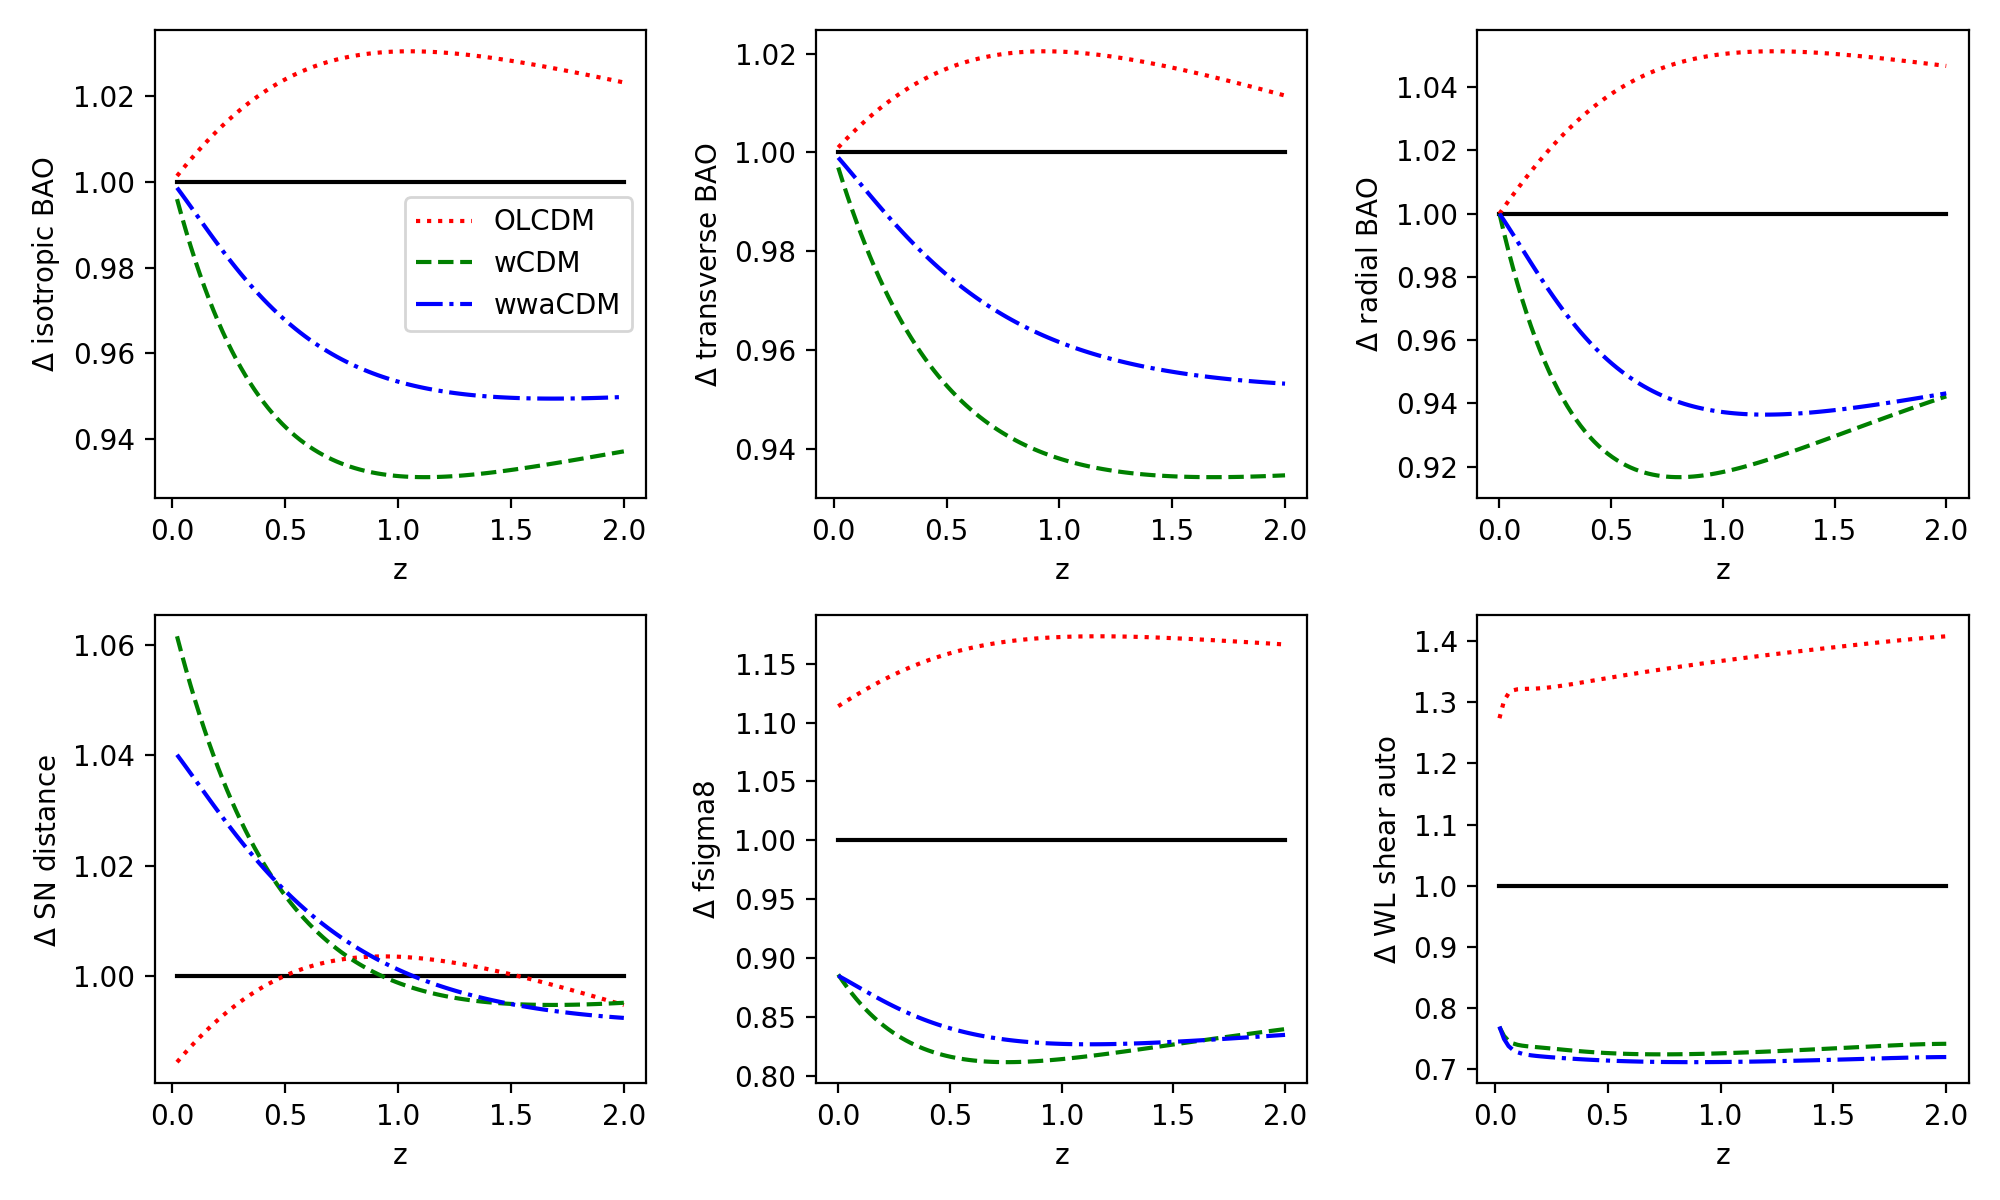
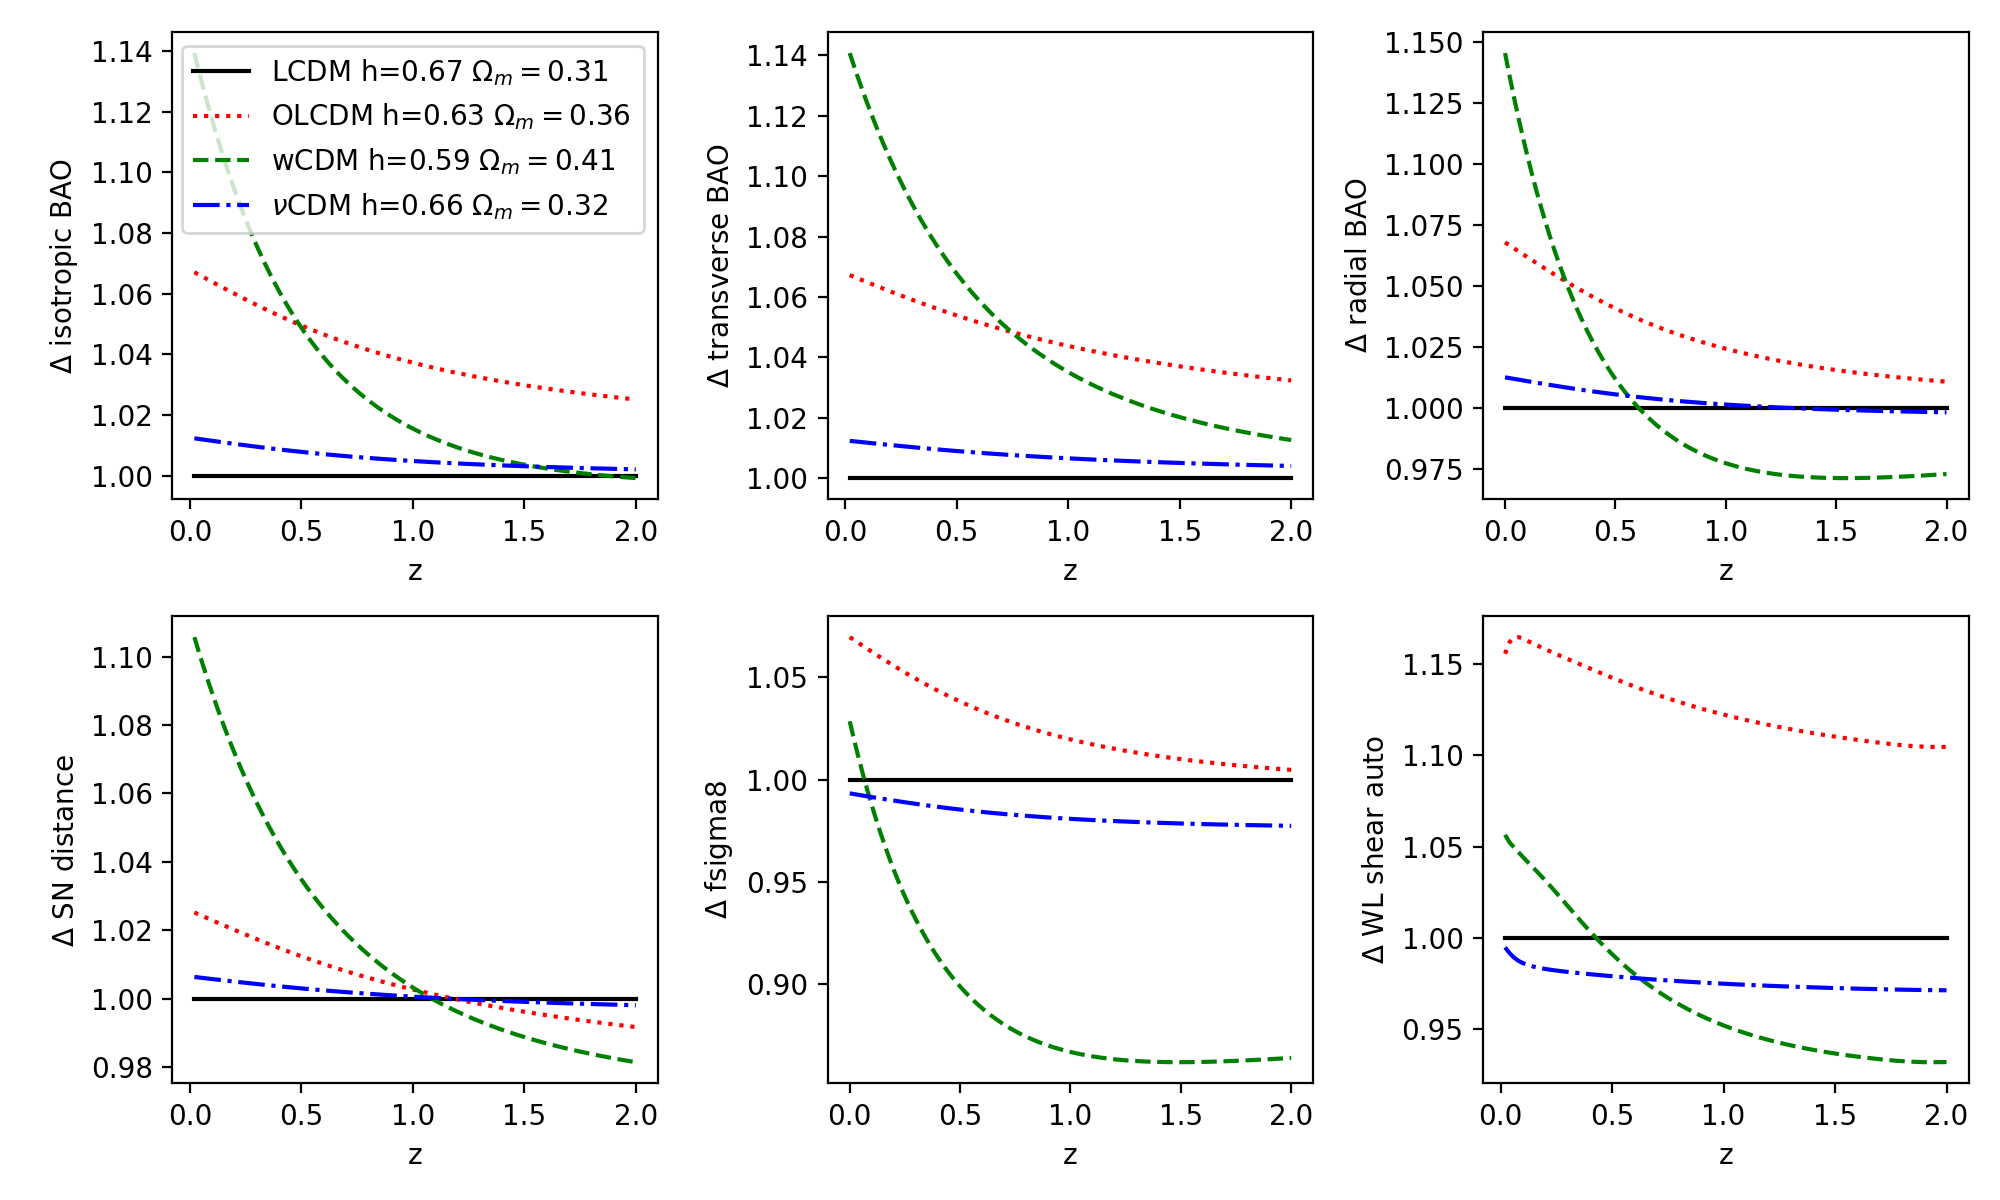
v2

diff --git a/thincandy.py b/thincandy.py
@@ -2,6 +2,87 @@
 import pyccl as ccl
 import numpy as np
 import matplotlib.pyplot as plt
+import scipy.optimize as so
+
+
+
+def main():
+    global aar, zar, CBase, Obh2, Och2, lnttAs, ns
+    # Planck best fit
+    Obh2 = 0.02233
+    Och2 = 0.1198
+    lnttAs = 3.043
+    h = 67.32/100.
+    ns = 0.9652
+
+    CBaseP = {
+        'Omega_c' :Och2/h/h,
+        'Omega_b' : Obh2/h/h,
+        'h' : h,
+        'n_s':  ns,
+        'A_s' : np.exp(lnttAs)/10e10*np.pi**2 # Eh??
+    }
+
+    CBase = ccl.Cosmology(**CBaseP)
+
+    print (ccl.sigma8(CBase), rd(CBase))
+    Copen = GetCosmo ({'Omega_k':-0.01})
+    Cw = GetCosmo ({'w0':-0.7})
+    Cmnu = GetCosmo ({'m_nu':0.1})
+
+
+    
+    zar=np.linspace (0,2,100)
+    aar = 1/(1+zar)
+
+    
+    plt.figure(figsize=(10,6), dpi=200)
+    for i,(fun,name) in enumerate([(aiso,'isotropic BAO'),
+                                   (aperp, 'transverse BAO'),
+                                   (apar, 'radial BAO'),
+                                   (sn, 'SN distance '),
+                                   (fs8, 'fsigma8'),
+                                   (shearshear, 'WL shear auto')]):
+        plt.subplot(2,3,i+1)
+        plt.plot(zar,fun(CBase),'k-', label='LCDM '+lpars(CBase))
+        plt.plot(zar,fun(Copen),'r:',label='OLCDM '+lpars(Copen))
+        plt.plot(zar,fun(Cw),'g--', label='wCDM '+lpars(Cw))
+        plt.plot(zar,fun(Cmnu),'b-.', label='$\\nu$CDM '+lpars(Cmnu))
+        if (i==0):
+            plt.legend()
+        plt.xlabel("z")
+        plt.ylabel('$\Delta$ '+name)
+        
+    plt.tight_layout()
+    plt.savefig('thincandy.png')
+    plt.show()
+
+
+def lpars(C):
+    str='h=%1.2f $\\Omega_m=%1.2f$ '%(C['h'],C['Omega_m'])
+    return str
+    
+def GetCosmo (addict):
+    ## find the correct h, to kee distance t
+    acmb=1/(1150.)
+    target = ccl.comoving_angular_distance(CBase,acmb) / rd(CBase)
+    def _C(h):
+        CP = {
+            'Omega_c' :Och2/h/h,
+            'Omega_b' : Obh2/h/h,
+            'h' : h,
+            'n_s':  ns,
+            'A_s' : np.exp(lnttAs)/10e10*np.pi**2 # Eh??
+        }
+        return ccl.Cosmology(**CP,**addict)
+    def _t(h):
+        C=_C(h) 
+        d=ccl.comoving_angular_distance(C,acmb) / rd(C)
+        return d-target
+        
+    hout = so.bisect(_t,0.3,1.0)
+    return _C(hout)
+
 
 def rd_cuesta_approx(obh2, ocbh2, onuh2, Nnu):
     if (abs(Nnu-3) > 0.1):
@@ -22,10 +103,9 @@ def aperp (C):
     aperp0 = ccl.comoving_angular_distance(CBase,aar) / rd(CBase)
     return aperp / aperp0
 
-
 def apar (C):
-    apar = 1/ccl.h_over_h0(C,aar) / rd(C)
-    apar0 = 1/ccl.h_over_h0(CBase,aar) / rd(CBase)
+    apar = 1/ccl.h_over_h0(C,aar)/C['h'] / rd(C)
+    apar0 = 1/ccl.h_over_h0(CBase,aar)/CBase['h'] / rd(CBase)
     return apar / apar0
 
 def aiso (C):
@@ -54,55 +134,11 @@ def shearshear (C):
     sp0 = np.array([shearpower(CBase,z) for z in zar])
     return sp/sp0
     
+
+if __name__=="__main__":
+    main()
     
+
     
-
-
-# Planck best fit
-Obh2 = 0.02233
-Och2 = 0.1198
-lnttAs = 3.043
-h = 67.32/100.
-ns = 0.9652
-
-CBaseP = {
-    'Omega_c' :Och2/h/h,
-    'Omega_b' : Obh2/h/h,
-    'h' : h,
-    'n_s':  ns,
-    'A_s' : np.exp(lnttAs)/10e10*np.pi**2 # Eh??
-}
-
-CBase = ccl.Cosmology(**CBaseP)
-print (ccl.sigma8(CBase), rd(CBase))
-Copen = ccl.Cosmology(**CBaseP, Omega_k=-0.1)
-Cw = ccl.Cosmology(**CBaseP, w0=-0.7)
-Cwa = ccl.Cosmology(**CBaseP, w0=-0.9, wa=+0.5)
-
-zar=np.linspace (0,2,100)
-aar = 1/(1+zar)
-
-plt.figure(figsize=(10,6), dpi=200)
-for i,(fun,name) in enumerate([(aiso,'isotropic BAO'),
-                               (aperp, 'transverse BAO'),
-                               (apar, 'radial BAO'),
-                               (sn, 'SN distance '),
-                               (fs8, 'fsigma8'),
-                               (shearshear, 'WL shear auto')]):
-    plt.subplot(2,3,i+1)
-    plt.plot(zar,fun(CBase),'k-')
-    plt.plot(zar,fun(Copen),'r:',label='OLCDM')
-    plt.plot(zar,fun(Cw),'g--', label='wCDM')
-    plt.plot(zar,fun(Cwa),'b-.', label='wwaCDM')
-    if (i==0):
-        plt.legend()
-    plt.xlabel("z")
-    plt.ylabel('$\Delta$ '+name)
-
-plt.tight_layout()
-plt.savefig('thincandy.png')
-plt.show()
-
-
 
 
